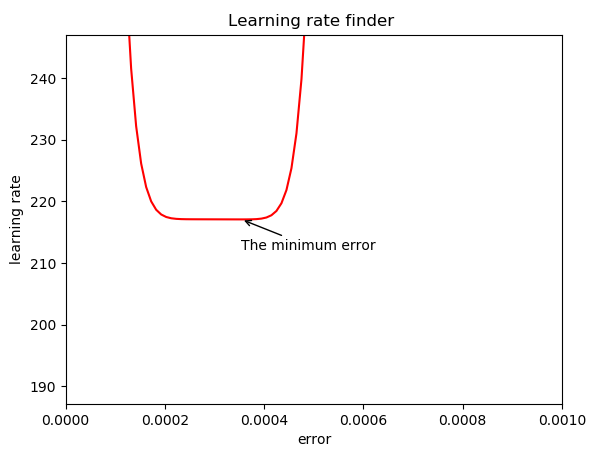
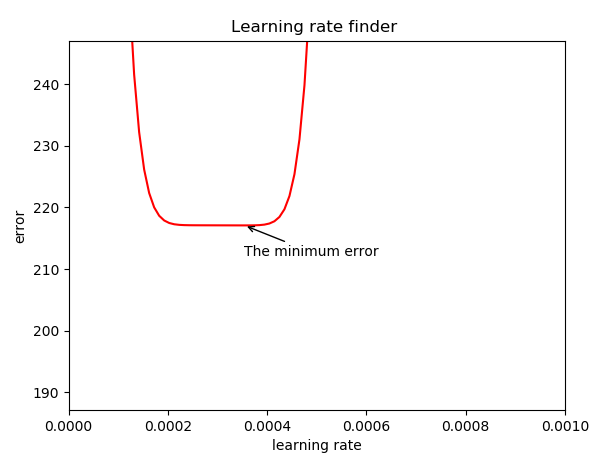
x and y axis mixed up

Changed region(s): [[0.0, 0.0311, 0.9608, 0.9956]]

diff --git a/linear_regression.py b/linear_regression.py
@@ -115,8 +115,8 @@ def find_learning_rate(x,y,w1_init,w2_init,lr_epochs = LR_EPOCHS,max_lr=MAX_LR, 
 
     #enable below to see plot
     plt.title("Learning rate finder ")
-    plt.xlabel("error")
-    plt.ylabel("learning rate")
+    plt.ylabel("error")
+    plt.xlabel("learning rate")
     plt.ylim(min(totalerrors)-30,min(totalerrors)+30)  #lowest learning rate sets highest error (to display)
     plt.xlim(min(LR), max(LR))
     plt.autoscale(False)
